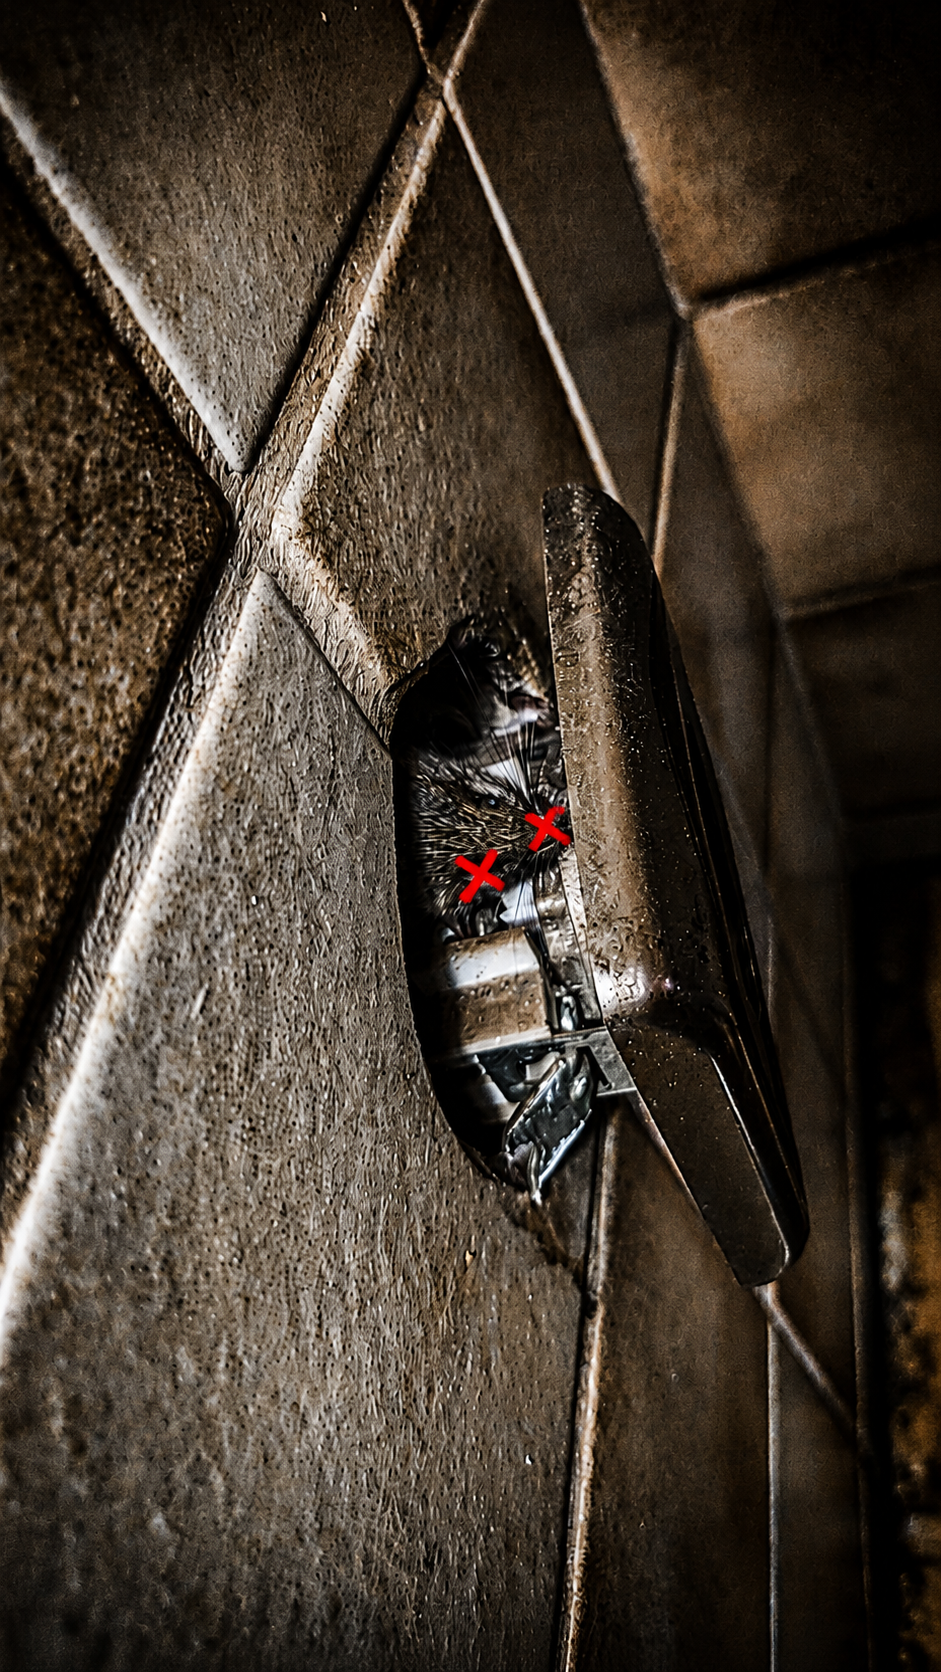
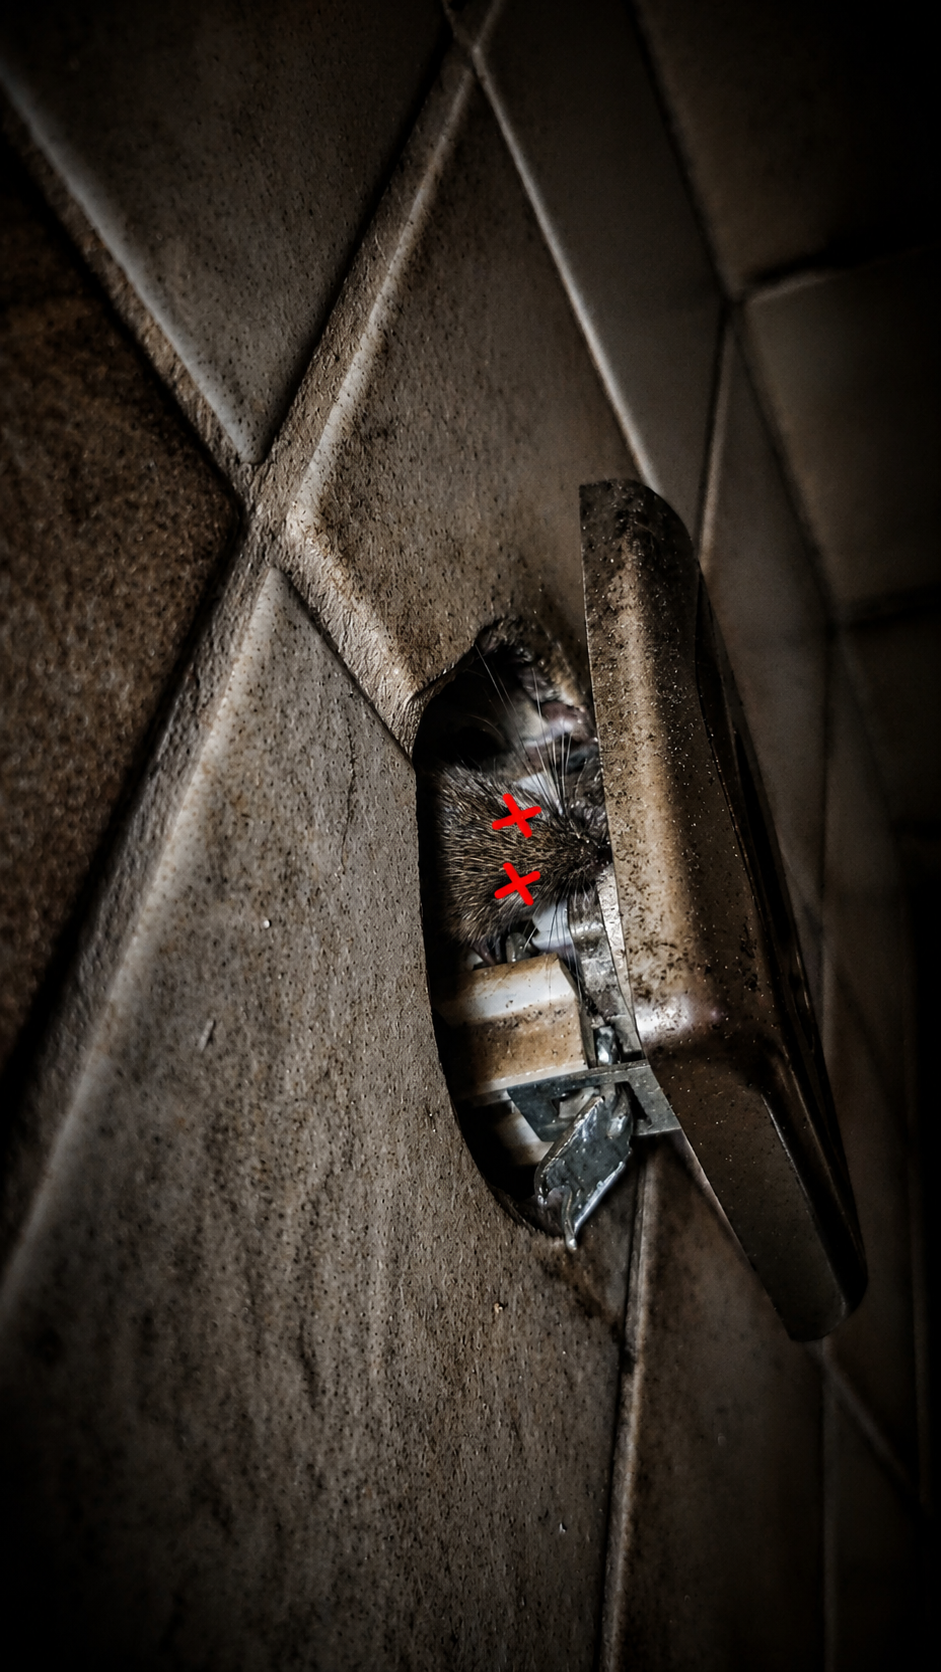
Podmiana zdjęcia myszy

diff --git a/articles/2026-08-10-horror-w-slotwinie.html b/articles/2026-08-10-horror-w-slotwinie.html
@@ -187,7 +187,7 @@
 
           <figure class="story-photo">
             <img
-              src="/assets/martwa-mysz.jpeg?v=3"
+              src="/assets/martwa-mysz.png?v=4"
               alt="Martwa mysz znaleziona za obudową gniazdka elektrycznego w domu numer 82"
             />
             <figcaption>

diff --git a/index.html b/index.html
@@ -515,7 +515,7 @@
 
           <figure class="story-photo">
             <img
-              src="/assets/martwa-mysz.jpeg?v=3"
+              src="/assets/martwa-mysz.png?v=4"
               alt="Martwa mysz znaleziona za obudową gniazdka elektrycznego w domu numer 82"
             >
 

diff --git a/archive.html b/archive.html
@@ -184,7 +184,7 @@ w internetowym niebycie.
 <a href="/articles/2026-08-10-horror-w-slotwinie.html">
 
 <img
-src="/assets/martwa-mysz.jpeg?v=3"
+src="/assets/martwa-mysz.png?v=4"
 alt="Martwa mysz za gniazdkiem"
 >
 
